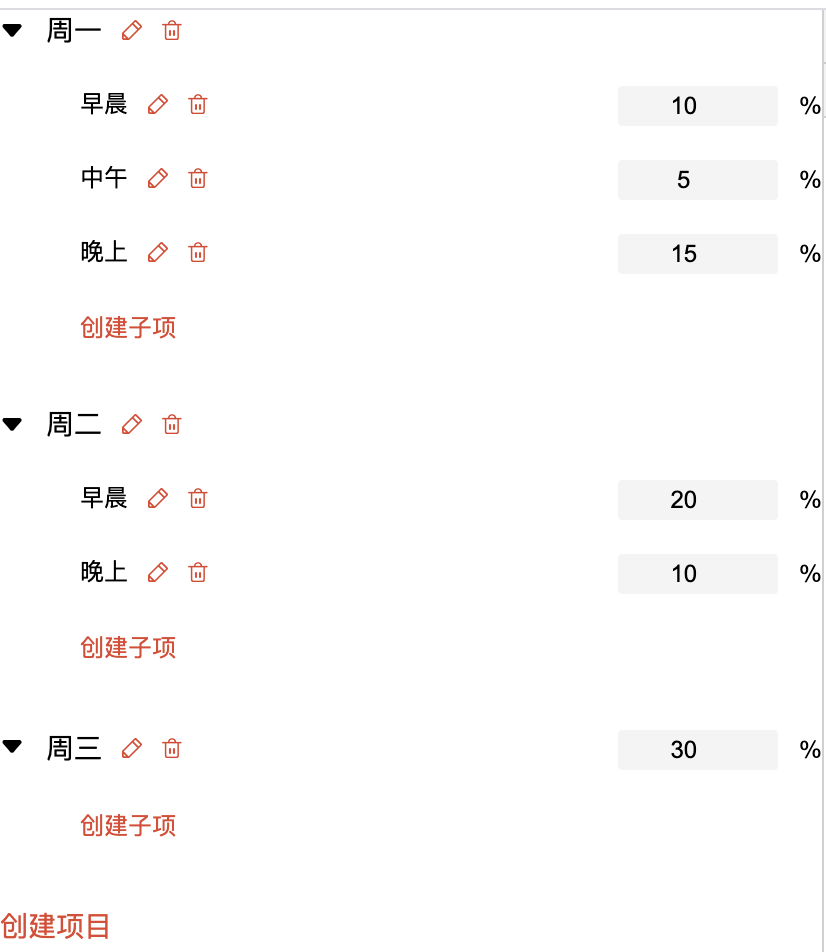
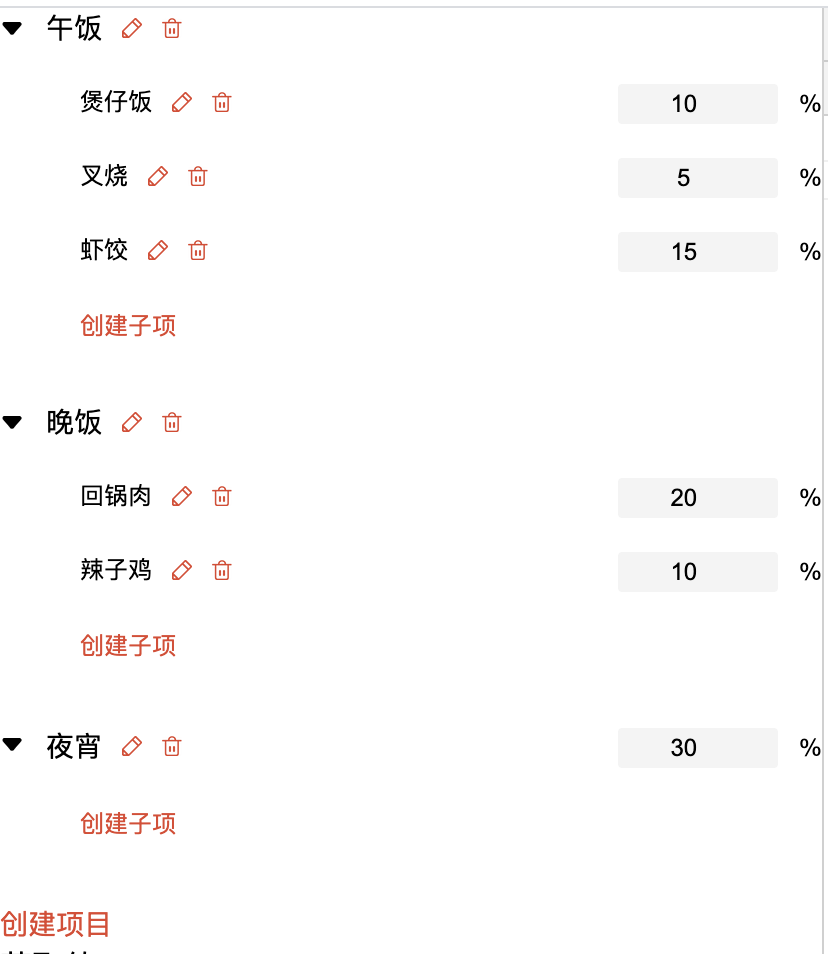
增加方法

diff --git a/index.html b/index.html
@@ -14,6 +14,7 @@
 <div onclick="getData()">获取值</div>
 <div onclick="getAllPercent()">获取当前百分比</div>
 <div onclick="checkAllInput()">检查每个input是否都不为空，true 说明有空值，false说明都不为空</div>
+<div onclick="checkHasRepeat()">检查是否有重复的元素，true说明有重复的元素</div>
 </body>
 <script>
     var options = {
@@ -38,7 +39,29 @@
         ],
         '周三': 30
     }
-    var tree = new TreeTool(document.querySelector('#tree'), options)
+    var options2 = {
+        '午饭': [
+            {
+                '煲仔饭': 10
+            },
+            {
+                '叉烧': 5
+            },
+            {
+                '虾饺': 15
+            }
+        ],
+        '晚饭': [
+            {
+                '回锅肉': 20
+            },
+            {
+                '辣子鸡': 10
+            }
+        ],
+        '夜宵': 30
+    }
+    var tree = new TreeTool(document.querySelector('#tree'), options2)
     tree.init()
     // 获取options数据
     function getData () {
@@ -54,6 +77,10 @@
         var bool = tree.checkAllInput()
         console.log(bool)
         // bool = true 说明有空值，否则说明都不为空
+    }
+    function checkHasRepeat () {
+        var bool = tree.checkHasRepeat()
+        console.log(bool)
     }
 </script>
 </html>

diff --git a/js/index.js b/js/index.js
@@ -281,6 +281,26 @@
                 numArr.push(allSumNumInput[j].value)
             }
             return numArr.indexOf('') > 0 // 如果大于0 说明有空值
+        },
+        // 检查是否有重复的
+        checkHasRepeat: function () {
+            var valueArr = []
+            var treeOneName = document.getElementsByClassName('tree-one-name')
+            var treeTwoName = document.getElementsByClassName('tree-two-name')
+            for (var i = 0; i < treeOneName.length; i++) {
+                valueArr.push(treeOneName[i].innerHTML)
+            }
+            for (var j = 0; j < treeTwoName.length; j++) {
+                valueArr.push(treeTwoName[j].innerHTML)
+            }
+            console.log(valueArr)
+            var nary = valueArr.sort()
+            for(var i = 0; i < nary.length - 1; i++) {
+                if(nary[i] === nary[i + 1]) {
+                    return true
+                }
+            }
+            return false
         }
     }
     var TreeTool = function (el, options) {
@@ -300,6 +320,9 @@
         },
         checkAllInput: function () {
             return treeUtils.checkAllInput()
+        },
+        checkHasRepeat: function () {
+            return treeUtils.checkHasRepeat()
         }
     }
     window.TreeTool = TreeTool

diff --git a/README.md b/README.md
@@ -49,3 +49,5 @@ var options = {
 
 - tree.checkAllInput() 检查是否有空的输入框，true 说明有空值，false说明都不为空
 
+- tree.checkHasRepeat() 检查是否有重复的元素，true说明有重复的元素
+
